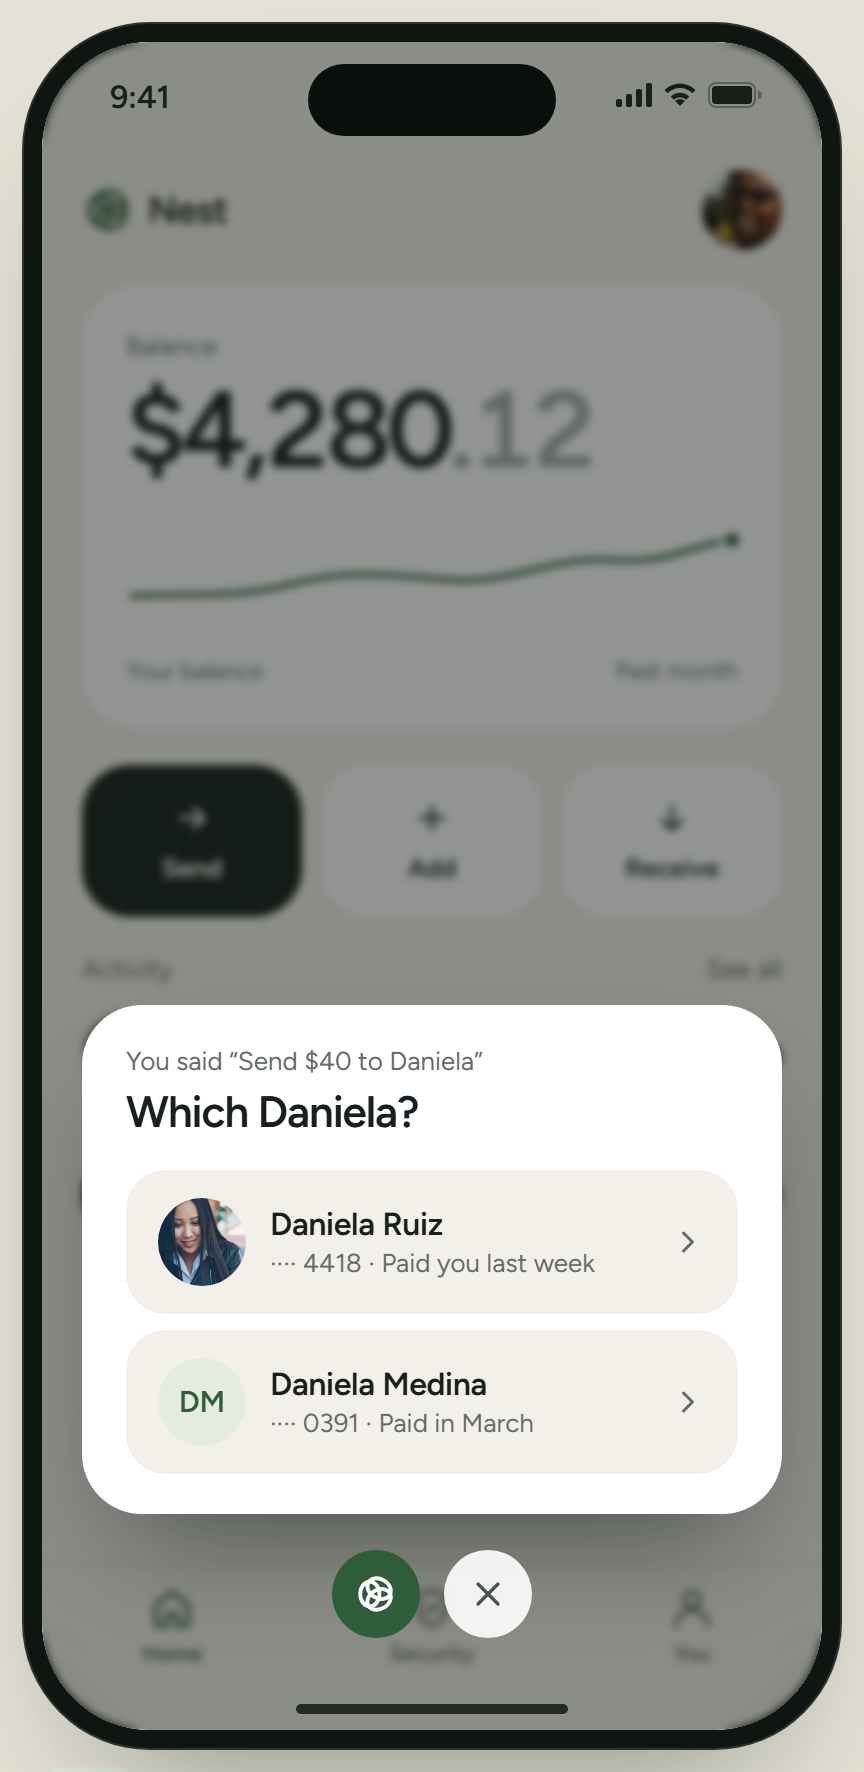
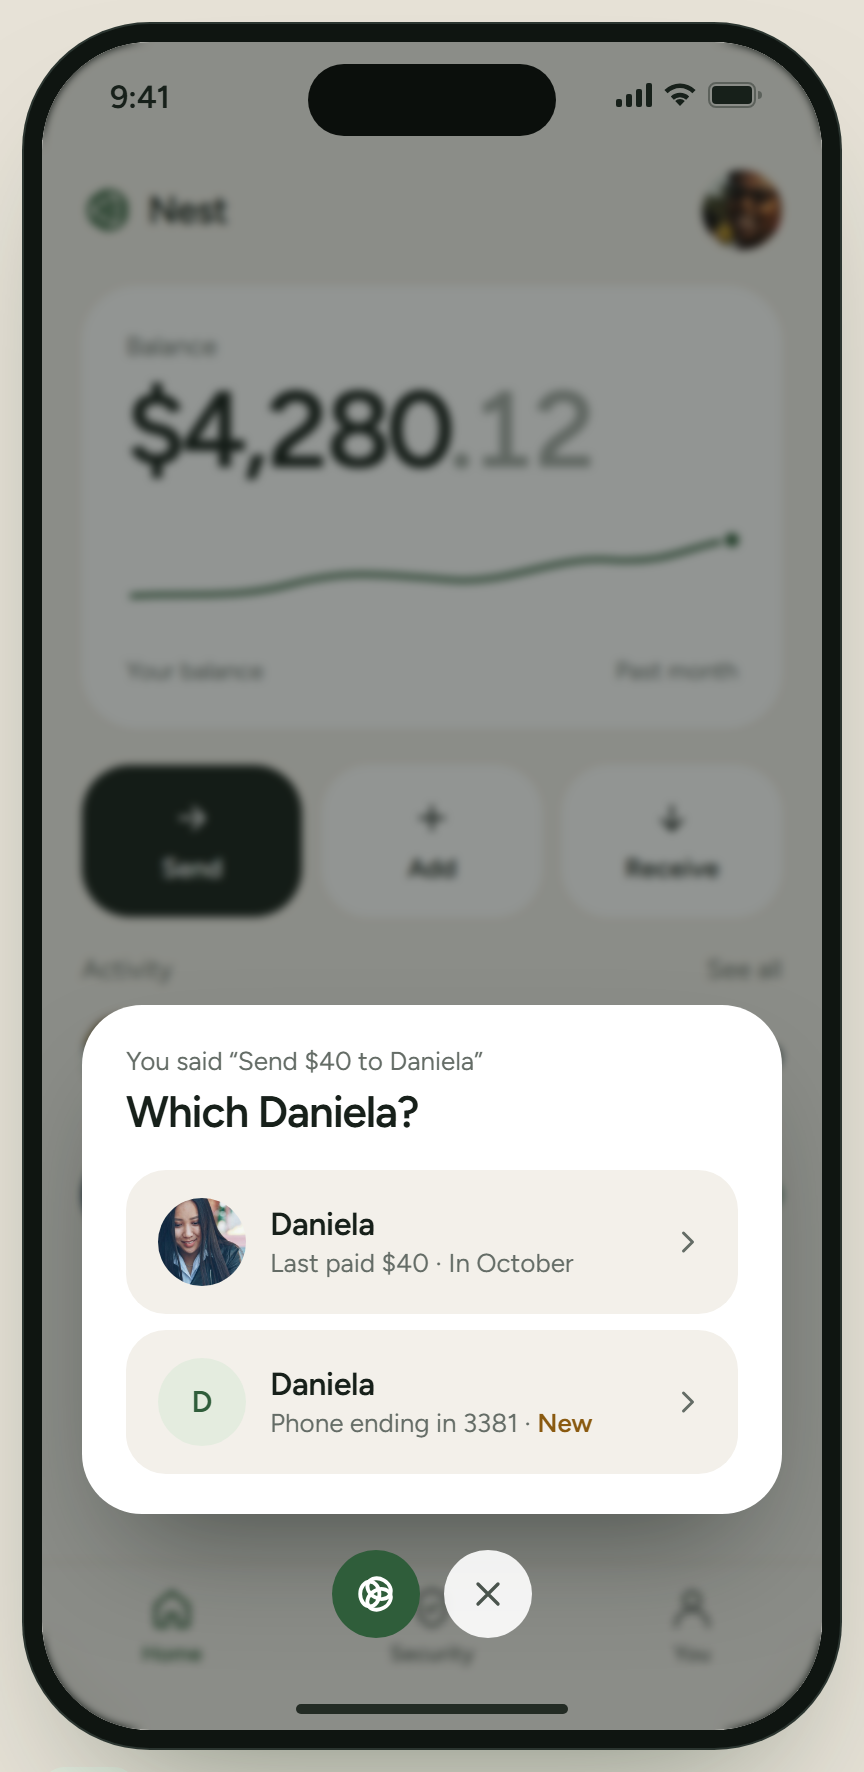
Voice send: Martha's final copy in screens 17-21 and VOICE_SEND.md

diff --git a/app-design/nest-app-screens.html b/app-design/nest-app-screens.html
@@ -617,11 +617,11 @@
         <div class="tab"><svg width="24" height="24"><use href="#user"/></svg>You</div>
       </div>
       
-      <div class="orb-tip">Send with your voice</div>
-      <div class="orb" role="button" aria-label="Send money with your voice"><svg><use href="#nest"/></svg></div>
+      <div class="orb-tip">Tap to send money by voice</div>
+      <div class="orb" role="button" aria-label="Send money by voice"><svg><use href="#nest"/></svg></div>
       <div class="homebar"></div>
     </div>
-    <figcaption><span class="tag">Voice</span><b>17 · Voice orb.</b> A small circle above the tab bar on Home. The tip shows once, the first time.</figcaption>
+    <figcaption><span class="tag">Voice</span><b>17 · Voice orb.</b> A small circle above the tab bar on Home. The tip shows once, the first time. Screen reader label: “Send money by voice”.</figcaption>
   </figure>
   <!-- voice: listening -->
   <figure>
@@ -670,7 +670,7 @@
           <div class="orb-lg" style="margin:30px 0"><i></i><i></i><i></i><svg><use href="#nest"/></svg></div>
           <span class="xbtn"><svg width="20" height="20"><use href="#x"/></svg></span>
         </div>
-        <div class="label" style="color:rgba(255,255,255,.78);margin-top:-6px">Try “Send $250 to Mamá”</div>
+        <div class="label" style="color:rgba(255,255,255,.78);margin-top:-6px">Say something like “Send $250 to Mamá”</div>
       </div>
       <div class="homebar"></div>
     </div>
@@ -715,7 +715,7 @@
       <div class="scrim" style="background:rgba(17,24,19,.46);backdrop-filter:blur(2px)"></div>
       <div class="voice-wrap">
         <div class="pop" style="padding:22px">
-          <div class="row gap12"><span class="avatar lg rosa"></span><div class="grow"><div class="label">You said</div><div class="h2" style="margin-top:2px">Send $250 to Mamá?</div></div></div>
+          <div class="row gap12"><span class="avatar lg rosa"></span><div class="grow"><div class="label">You said</div><div class="h2" style="margin-top:2px">Send $250.00 to Mamá</div></div></div>
           <div style="margin-top:14px">
             <div class="kv"><span>Fee</span><span>$0.00</span></div>
             <div class="kv"><span>Arrives</span><span>In about a second</span></div>
@@ -725,13 +725,13 @@
             <button class="btn dark"><svg width="22" height="22" style="color:#fff"><use href="#faceid"/></svg>Send with Face ID</button>
             <button class="btn ghost">Change it</button>
           </div>
-          <div class="note" style="text-align:center">Your voice alone never sends money.</div>
+          <div class="note" style="text-align:center">Nothing is sent until you approve it.</div>
         </div>
         <div class="row gap12" style="align-items:center"><span class="orb-sm"><svg><use href="#nest"/></svg></span><span class="xbtn"><svg width="20" height="20"><use href="#x"/></svg></span></div>
       </div>
       <div class="homebar"></div>
     </div>
-    <figcaption><span class="tag">Voice</span><b>19 · Confirm.</b> Nest reads it back. You still approve with the phone's unlock: Face ID, fingerprint or PIN.</figcaption>
+    <figcaption><span class="tag">Voice</span><b>19 · Confirm.</b> Nest reads it back with cents, so “two fifty” can't become $2.50. The button follows the unlock: Send with Face ID / with your fingerprint / with your PIN.</figcaption>
   </figure>
   <!-- voice: clarify -->
   <figure>
@@ -775,8 +775,8 @@
           <div class="label">You said “Send $40 to Daniela”</div>
           <div class="h2" style="margin-top:4px">Which Daniela?</div>
           <div class="col" style="gap:8px;margin-top:16px">
-            <div class="opt"><span class="avatar dani"></span><div class="grow"><div class="t1">Daniela Ruiz</div><div class="t2">···· 4418 · Paid you last week</div></div><svg width="18" height="18" style="color:var(--ink4)"><use href="#chev"/></svg></div>
-            <div class="opt"><span class="avatar">DM</span><div class="grow"><div class="t1">Daniela Medina</div><div class="t2">···· 0391 · Paid in March</div></div><svg width="18" height="18" style="color:var(--ink4)"><use href="#chev"/></svg></div>
+            <div class="opt"><span class="avatar dani"></span><div class="grow"><div class="t1">Daniela</div><div class="t2">Last paid $40 · In October</div></div><svg width="18" height="18" style="color:var(--ink4)"><use href="#chev"/></svg></div>
+            <div class="opt"><span class="avatar">D</span><div class="grow"><div class="t1">Daniela</div><div class="t2">Phone ending in 3381 · <span style="color:var(--amber);font-weight:600">New</span></div></div><svg width="18" height="18" style="color:var(--ink4)"><use href="#chev"/></svg></div>
           </div>
         </div>
         <div class="row gap12" style="align-items:center"><span class="orb-sm"><svg><use href="#nest"/></svg></span><span class="xbtn"><svg width="20" height="20"><use href="#x"/></svg></span></div>
@@ -824,9 +824,9 @@
       <div class="scrim" style="background:rgba(17,24,19,.46);backdrop-filter:blur(2px)"></div>
       <div class="voice-wrap">
         <div class="pop" style="text-align:center">
-          <div class="h2">I didn't catch that.</div>
-          <div class="label" style="margin-top:6px">Say who and how much, like “Send $250 to Mamá”.</div>
-          <button class="btn dark" style="margin-top:18px"><svg width="20" height="20"><use href="#mic"/></svg>Try again</button>
+          <div class="h2">Sorry, we didn't catch that.</div>
+          <div class="label" style="margin-top:6px">Say something like “Send $250 to Mamá”</div>
+          <button class="btn dark" style="margin-top:18px"><svg width="20" height="20"><use href="#mic"/></svg>Say it again</button>
         </div>
         <div class="row gap12" style="align-items:center"><span class="orb-sm" style="background:var(--ink4)"><svg><use href="#nest"/></svg></span><span class="xbtn"><svg width="20" height="20"><use href="#x"/></svg></span></div>
       </div>

diff --git a/VOICE_SEND.md b/VOICE_SEND.md
@@ -110,6 +110,35 @@ Ask it for **strict JSON** (schema above) and validate it on the server. If vali
 | Mic permission | (system sheet, after our one-line reason) | Only on the first tap. |
 | Locked | (orb greyed) | When Lock Nest is on. |
 
-## 5. Copy
+## 5. Copy (final, by Martha)
 
-Martha is writing the final strings: the tip, listening and thinking lines, the confirm button for each unlock method, the clarify questions, the miss, mic permission, and the Security row. The screens use draft strings until then.
+| ID | Where | String |
+|---|---|---|
+| V1.1 | Orb, screen reader label | Send money by voice |
+| V1.2 | Orb, screen reader hint | Starts listening. |
+| V1.3 | First-time tip | Tap to send money by voice |
+| V2.1 | Listening status | Listening |
+| V2.2 | Listening hint (live words replace it) | Say something like “Send $250 to Mamá” |
+| V3.1 | Thinking | One moment |
+| V4.1 | Confirm title (always with cents) | Send $250.00 to Mamá |
+| V4.2–4 | Approve button | Send with Face ID / Send with your fingerprint / Send with your PIN |
+| V4.5 | Change | Change it |
+| V4.6 | Cancel | Cancel |
+| V4.7 | Reassurance | Nothing is sent until you approve it. |
+| V5.1 | Two matches | Which Daniela? (if the names differ, e.g. Daniel and Daniela: “Who did you mean?”) |
+| V5.2 | Row, paid before | Daniela / Last paid $40 · In October |
+| V5.3 | Row, never paid | Daniela / Phone ending in 3381 · New (“New” in amber) |
+| V6.1 | Missing amount | How much do you want to send to Mamá? |
+| V7.1 | Didn't catch it | Sorry, we didn't catch that. |
+| V7.2 | Retry button | Say it again |
+| V8.1 | Sent (only once the money has arrived) | Mamá has your $250. |
+| V9.1 | Mic permission, title | Let Nest use your microphone |
+| V9.2 | Mic permission, reason (also the iOS purpose string) | Nest only listens after you tap the circle, to hear who you want to pay. |
+| V9.3 | Mic permission, button | Continue |
+| V10.1 | Security row | Send by voice |
+| V10.2–4 | Security sub-line | Every send still needs Face ID / your fingerprint / your PIN |
+
+Notes:
+- **Sends to someone new** end on the Undo screen ("You have 24 hours to undo this."), not V8.1, because the money is on hold. **Sends by text message** end on "Your $250 is on its way to Mamá."
+- **Unlock names on Android:** use "face unlock", "fingerprint" or "screen lock" (which covers PIN, pattern and password). On iPhone the PIN is the "passcode".
+- **Open question:** does voice send take Spanish? If yes, add a Spanish hint example ("Mandale $250 a mamá") so Spanish speakers don't keep getting V7.1.
